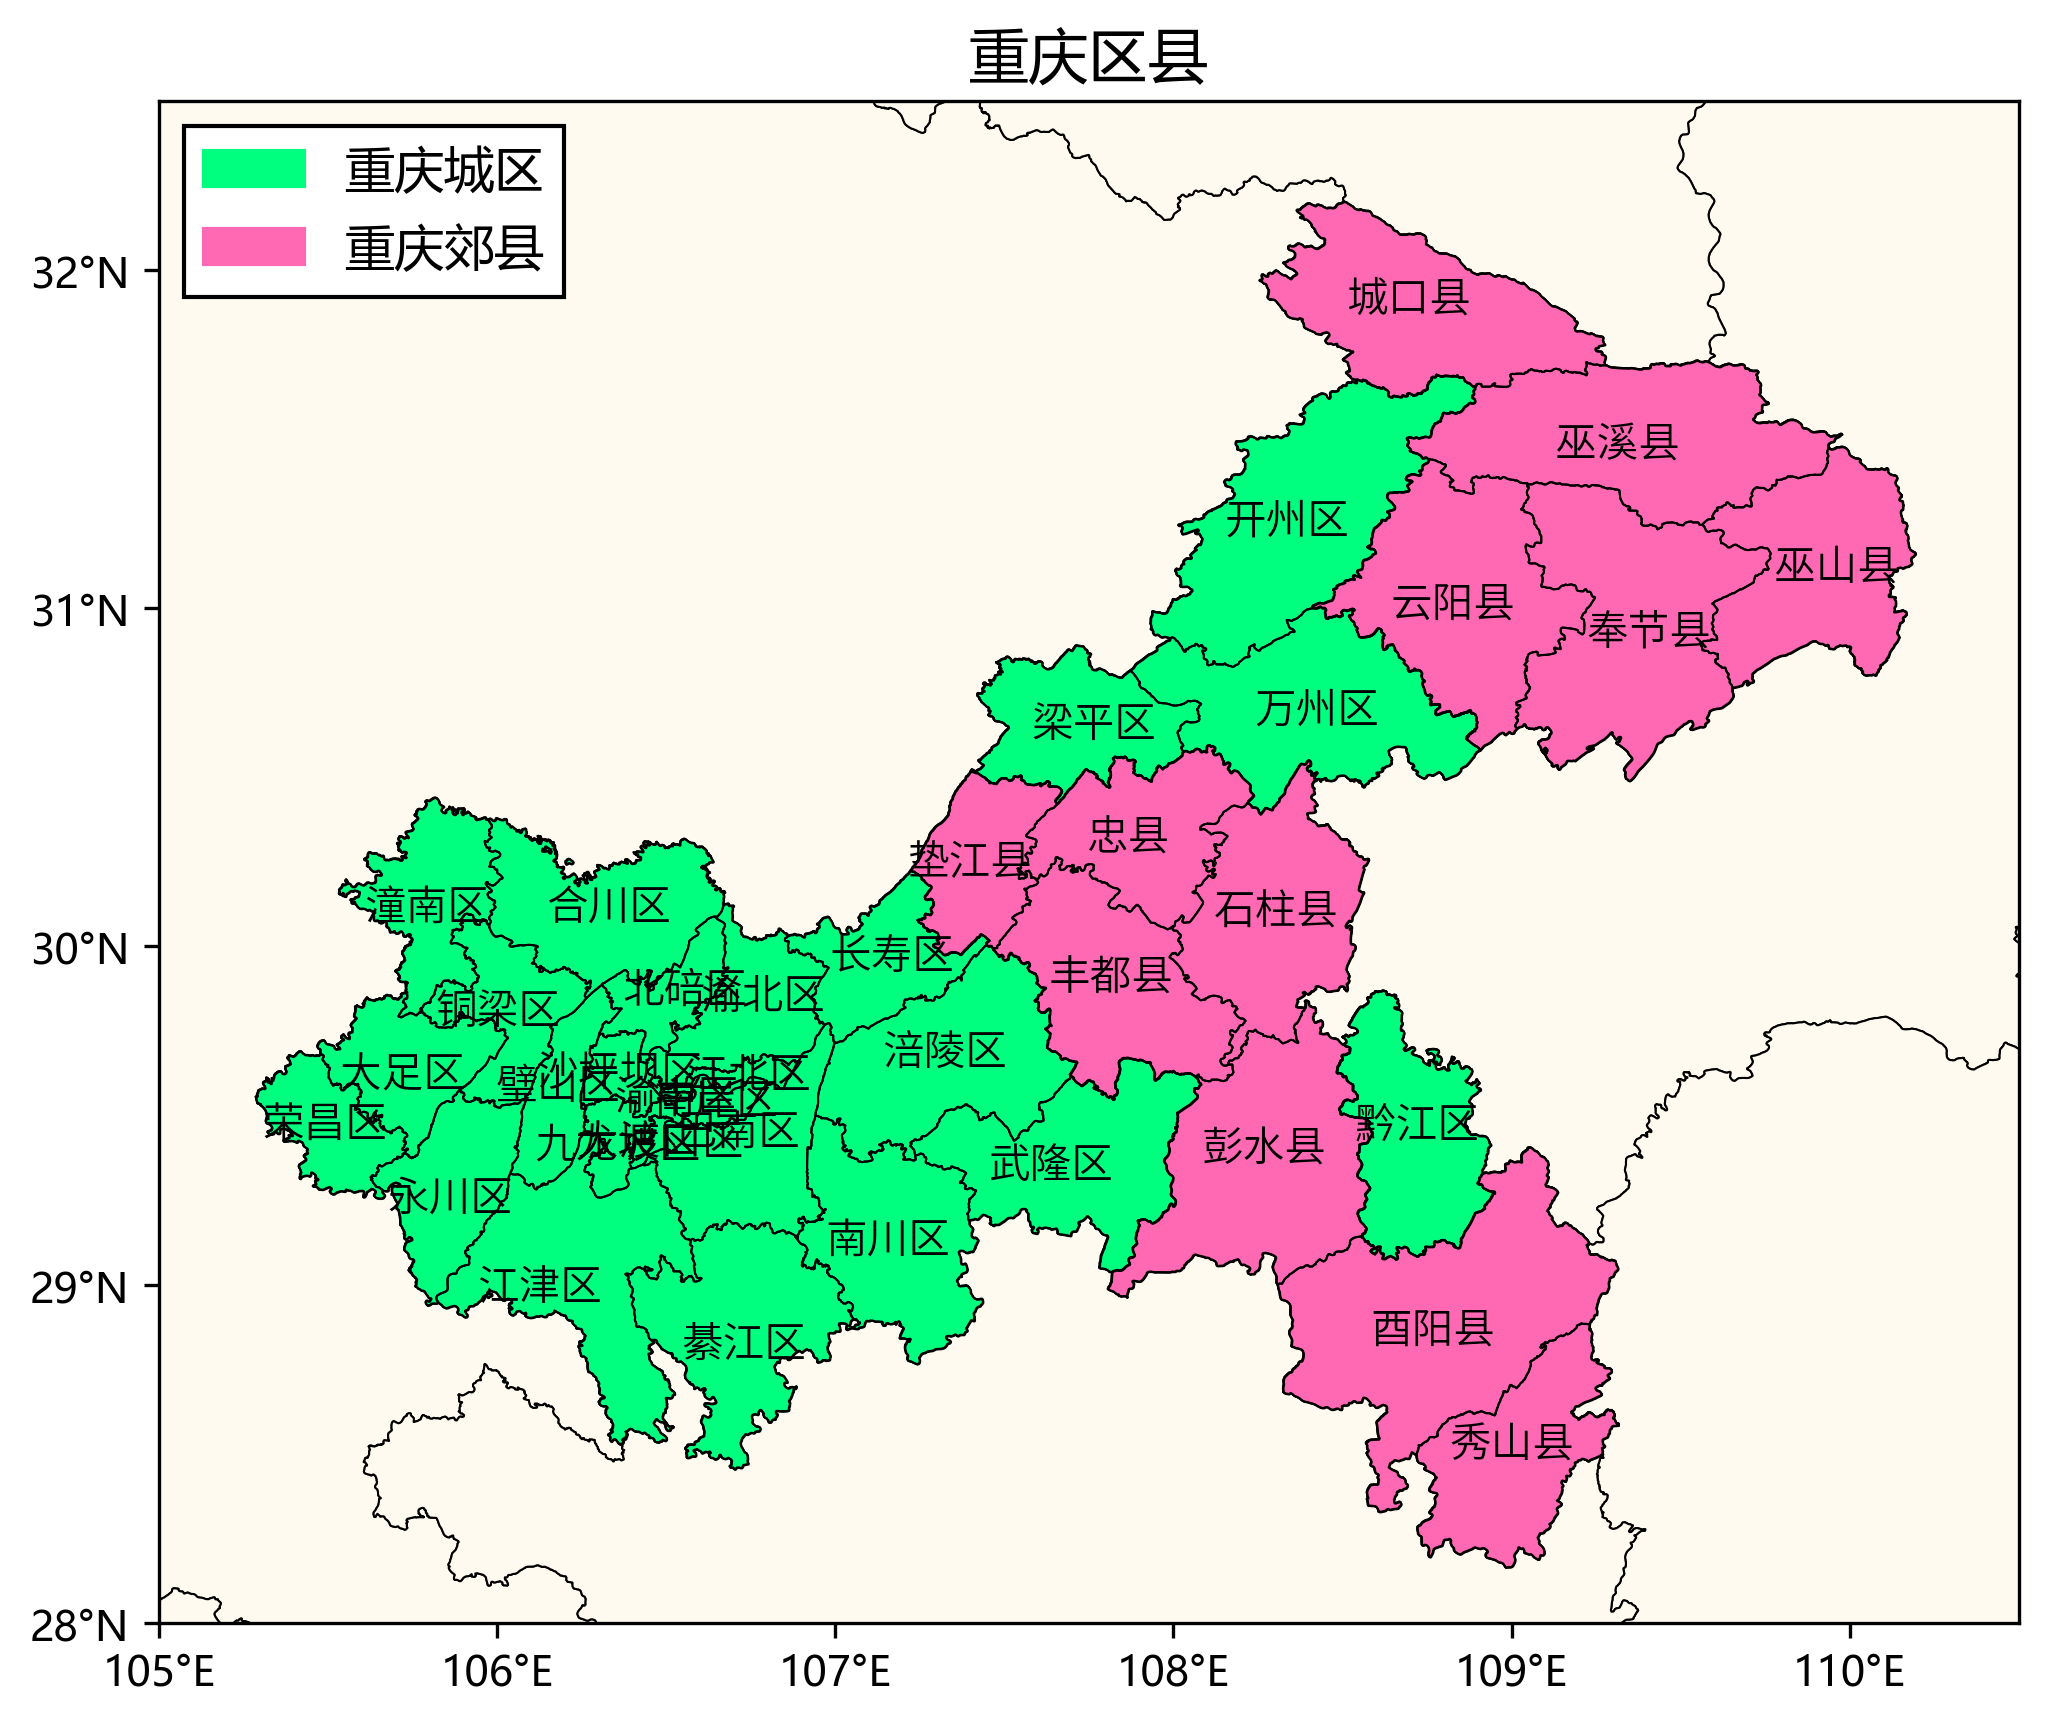
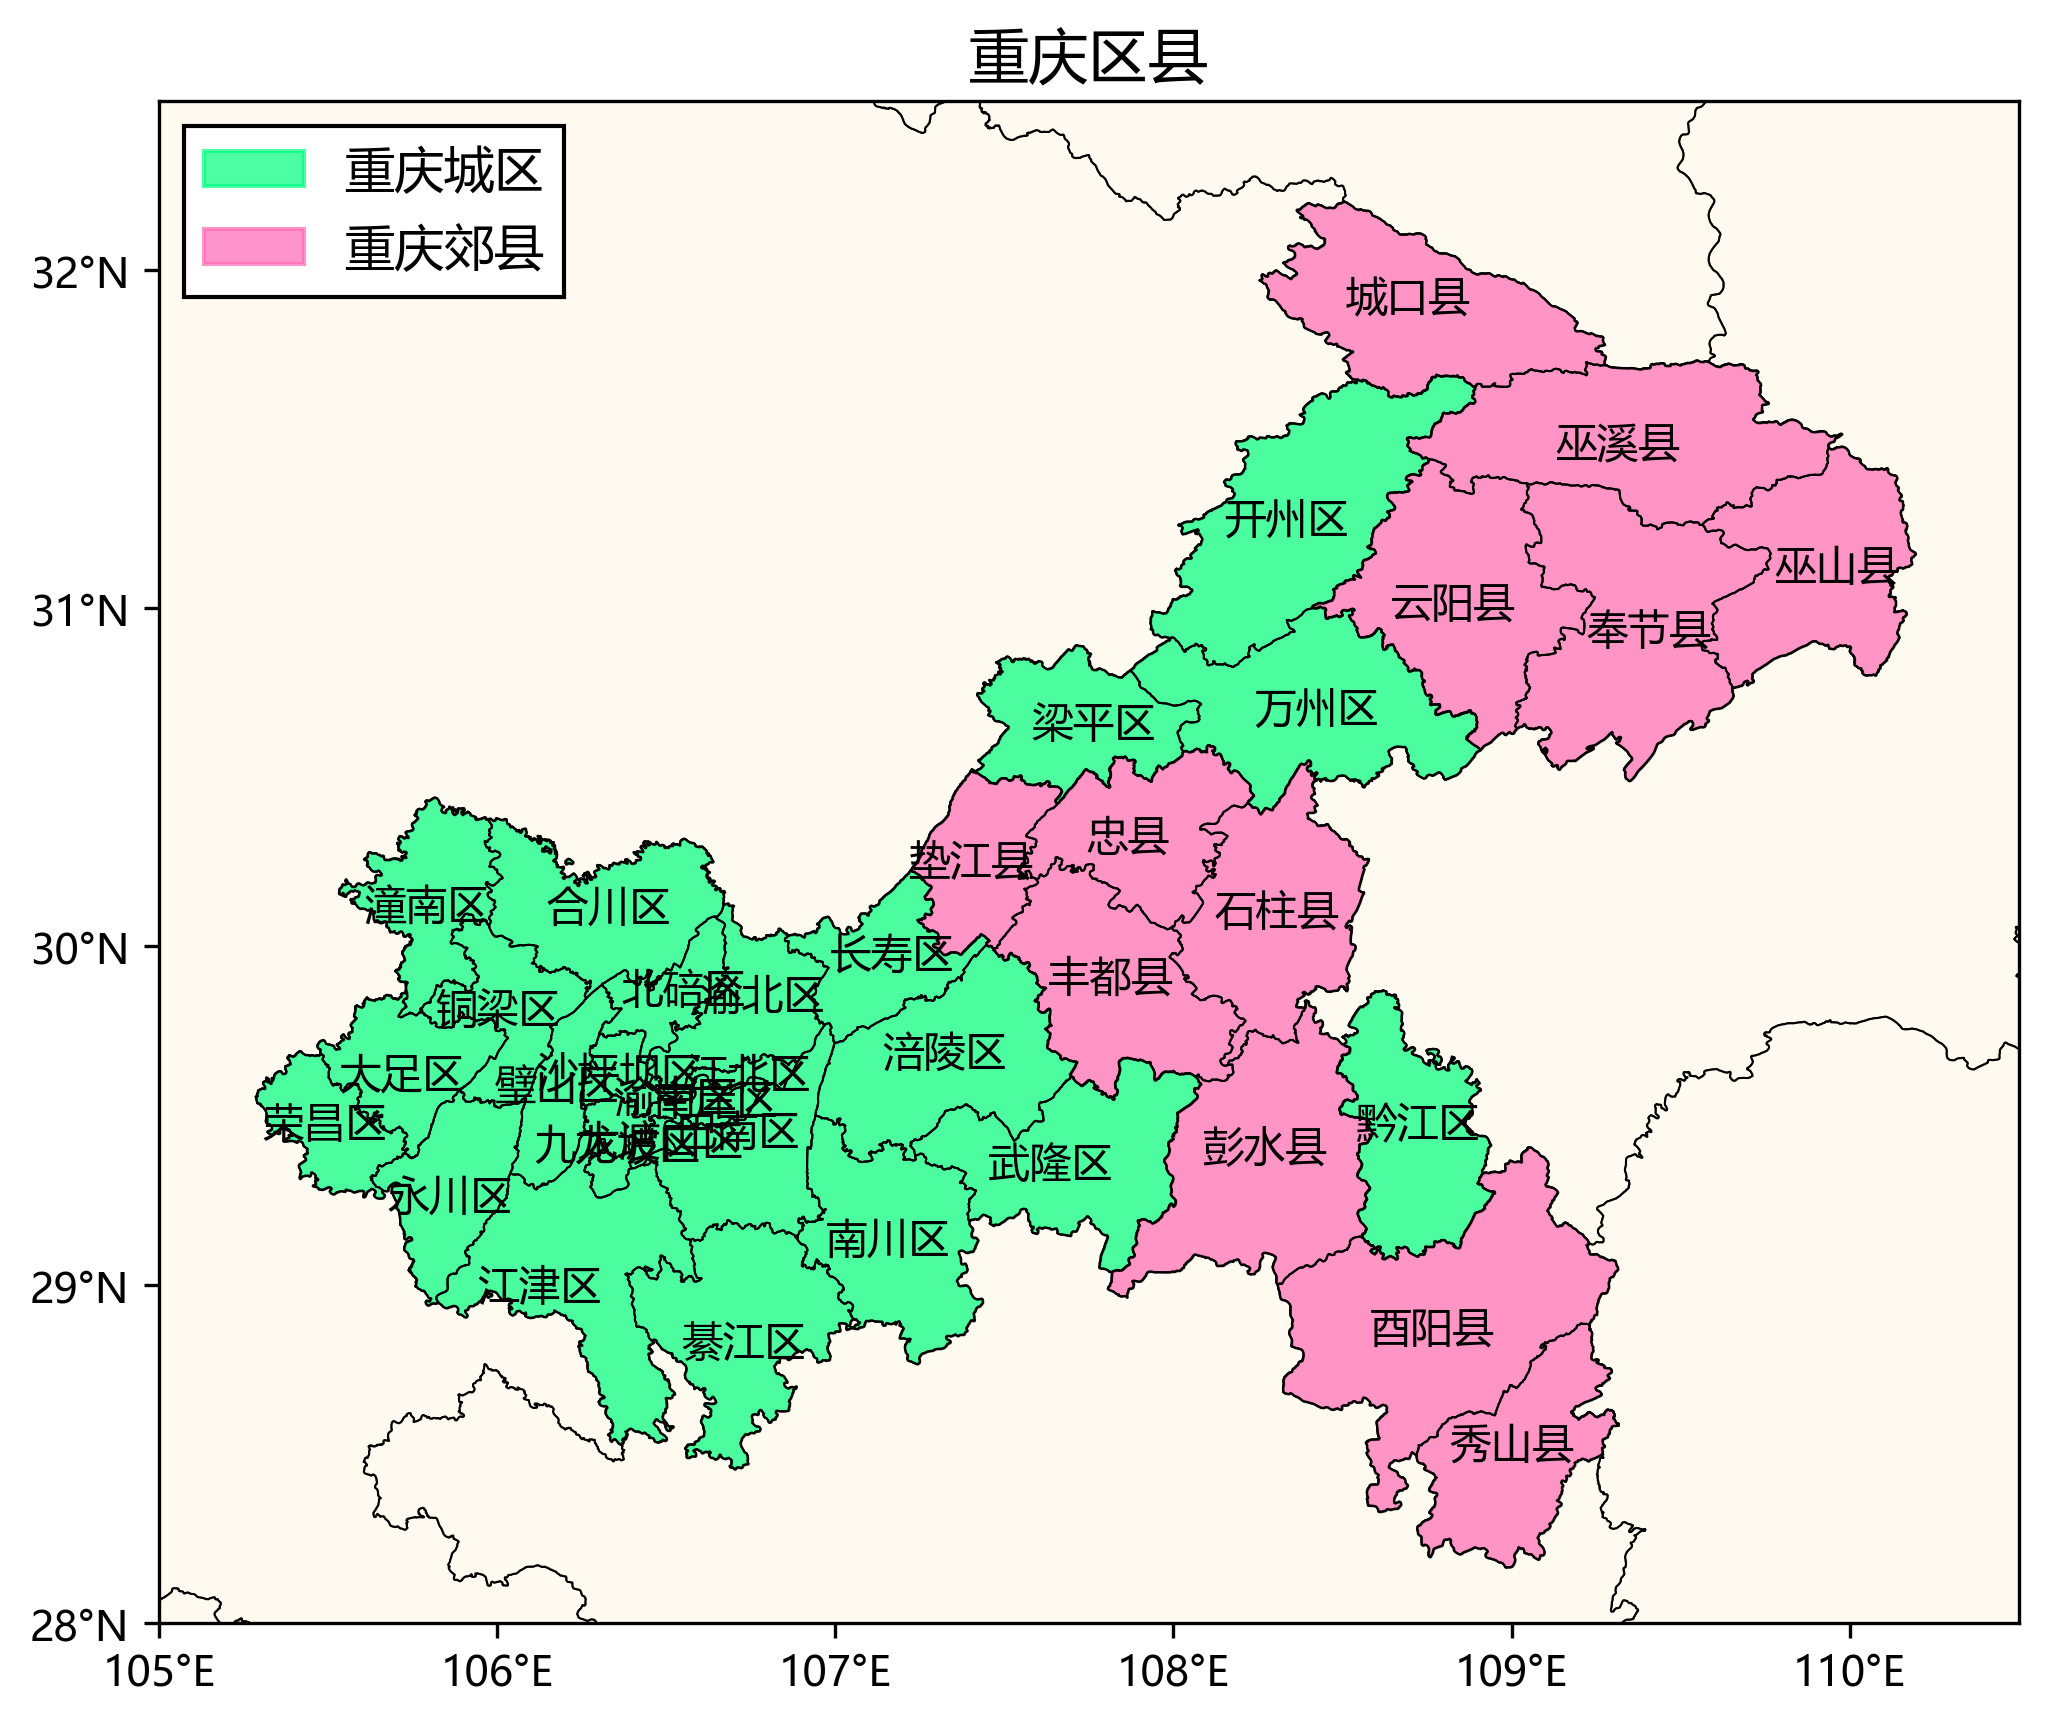
Change label_cn_xxx functions font condition
Former-commit-id: 25f21d70e0edd312a043116ebdddd8f47849e781

Changed region(s): [[0.125, 0.1229, 0.9375, 0.9217], [0.0938, 0.0614, 0.1562, 0.1536]]

diff --git a/example/chongqing.py b/example/chongqing.py
@@ -11,15 +11,15 @@ fplt.set_map_ticks(ax, [105, 110.5, 28, 32.5], dx=1, dy=1)
 
 # 绘制行政区划
 fplt.add_cn_province(ax, fc='floralwhite')
-fplt.add_cn_city(ax, '重庆城区', fc='springgreen')
-fplt.add_cn_city(ax, '重庆郊县', fc='hotpink')
+fplt.add_cn_city(ax, '重庆城区', fc='springgreen', alpha=0.7)
+fplt.add_cn_city(ax, '重庆郊县', fc='hotpink', alpha=0.7)
 fplt.add_cn_district(ax, province='重庆市')
 fplt.label_cn_district(ax, province='重庆市', fontsize='medium')
 
 # 手动制作图例
 patches = [
-    Patch(color='springgreen', label='重庆城区'),
-    Patch(color='hotpink', label='重庆郊县'),
+    Patch(color='springgreen', alpha=0.7, label='重庆城区'),
+    Patch(color='hotpink', alpha=0.7, label='重庆郊县'),
 ]
 ax.legend(
     handles=patches,

diff --git a/frykit/plot.py b/frykit/plot.py
@@ -848,9 +848,14 @@ def _add_cn_texts(
         kwargs.setdefault('clip_box', ax.bbox)
         kwargs.setdefault('transform', PlateCarree())
 
-    # 默认使用精简的思源黑体
-    filepath = DATA_DIRPATH / 'zh_font.otf'
-    if kwargs.get('fontname') is None and kwargs.get('fontfamily') is None:
+    if (
+        kwargs.get('fontname') is None
+        and kwargs.get('fontfamily') is None
+        and mpl.rcParams['font.family'][0] == 'sans-serif'
+        and mpl.rcParams['font.sans-serif'][0] == 'DejaVu Sans'
+    ):
+        # 用户不修改字体时使用自带的中文字体
+        filepath = DATA_DIRPATH / 'zh_font.otf'
         kwargs.setdefault('fontproperties', filepath)
 
     return add_texts(ax, lons, lats, names, **kwargs)
